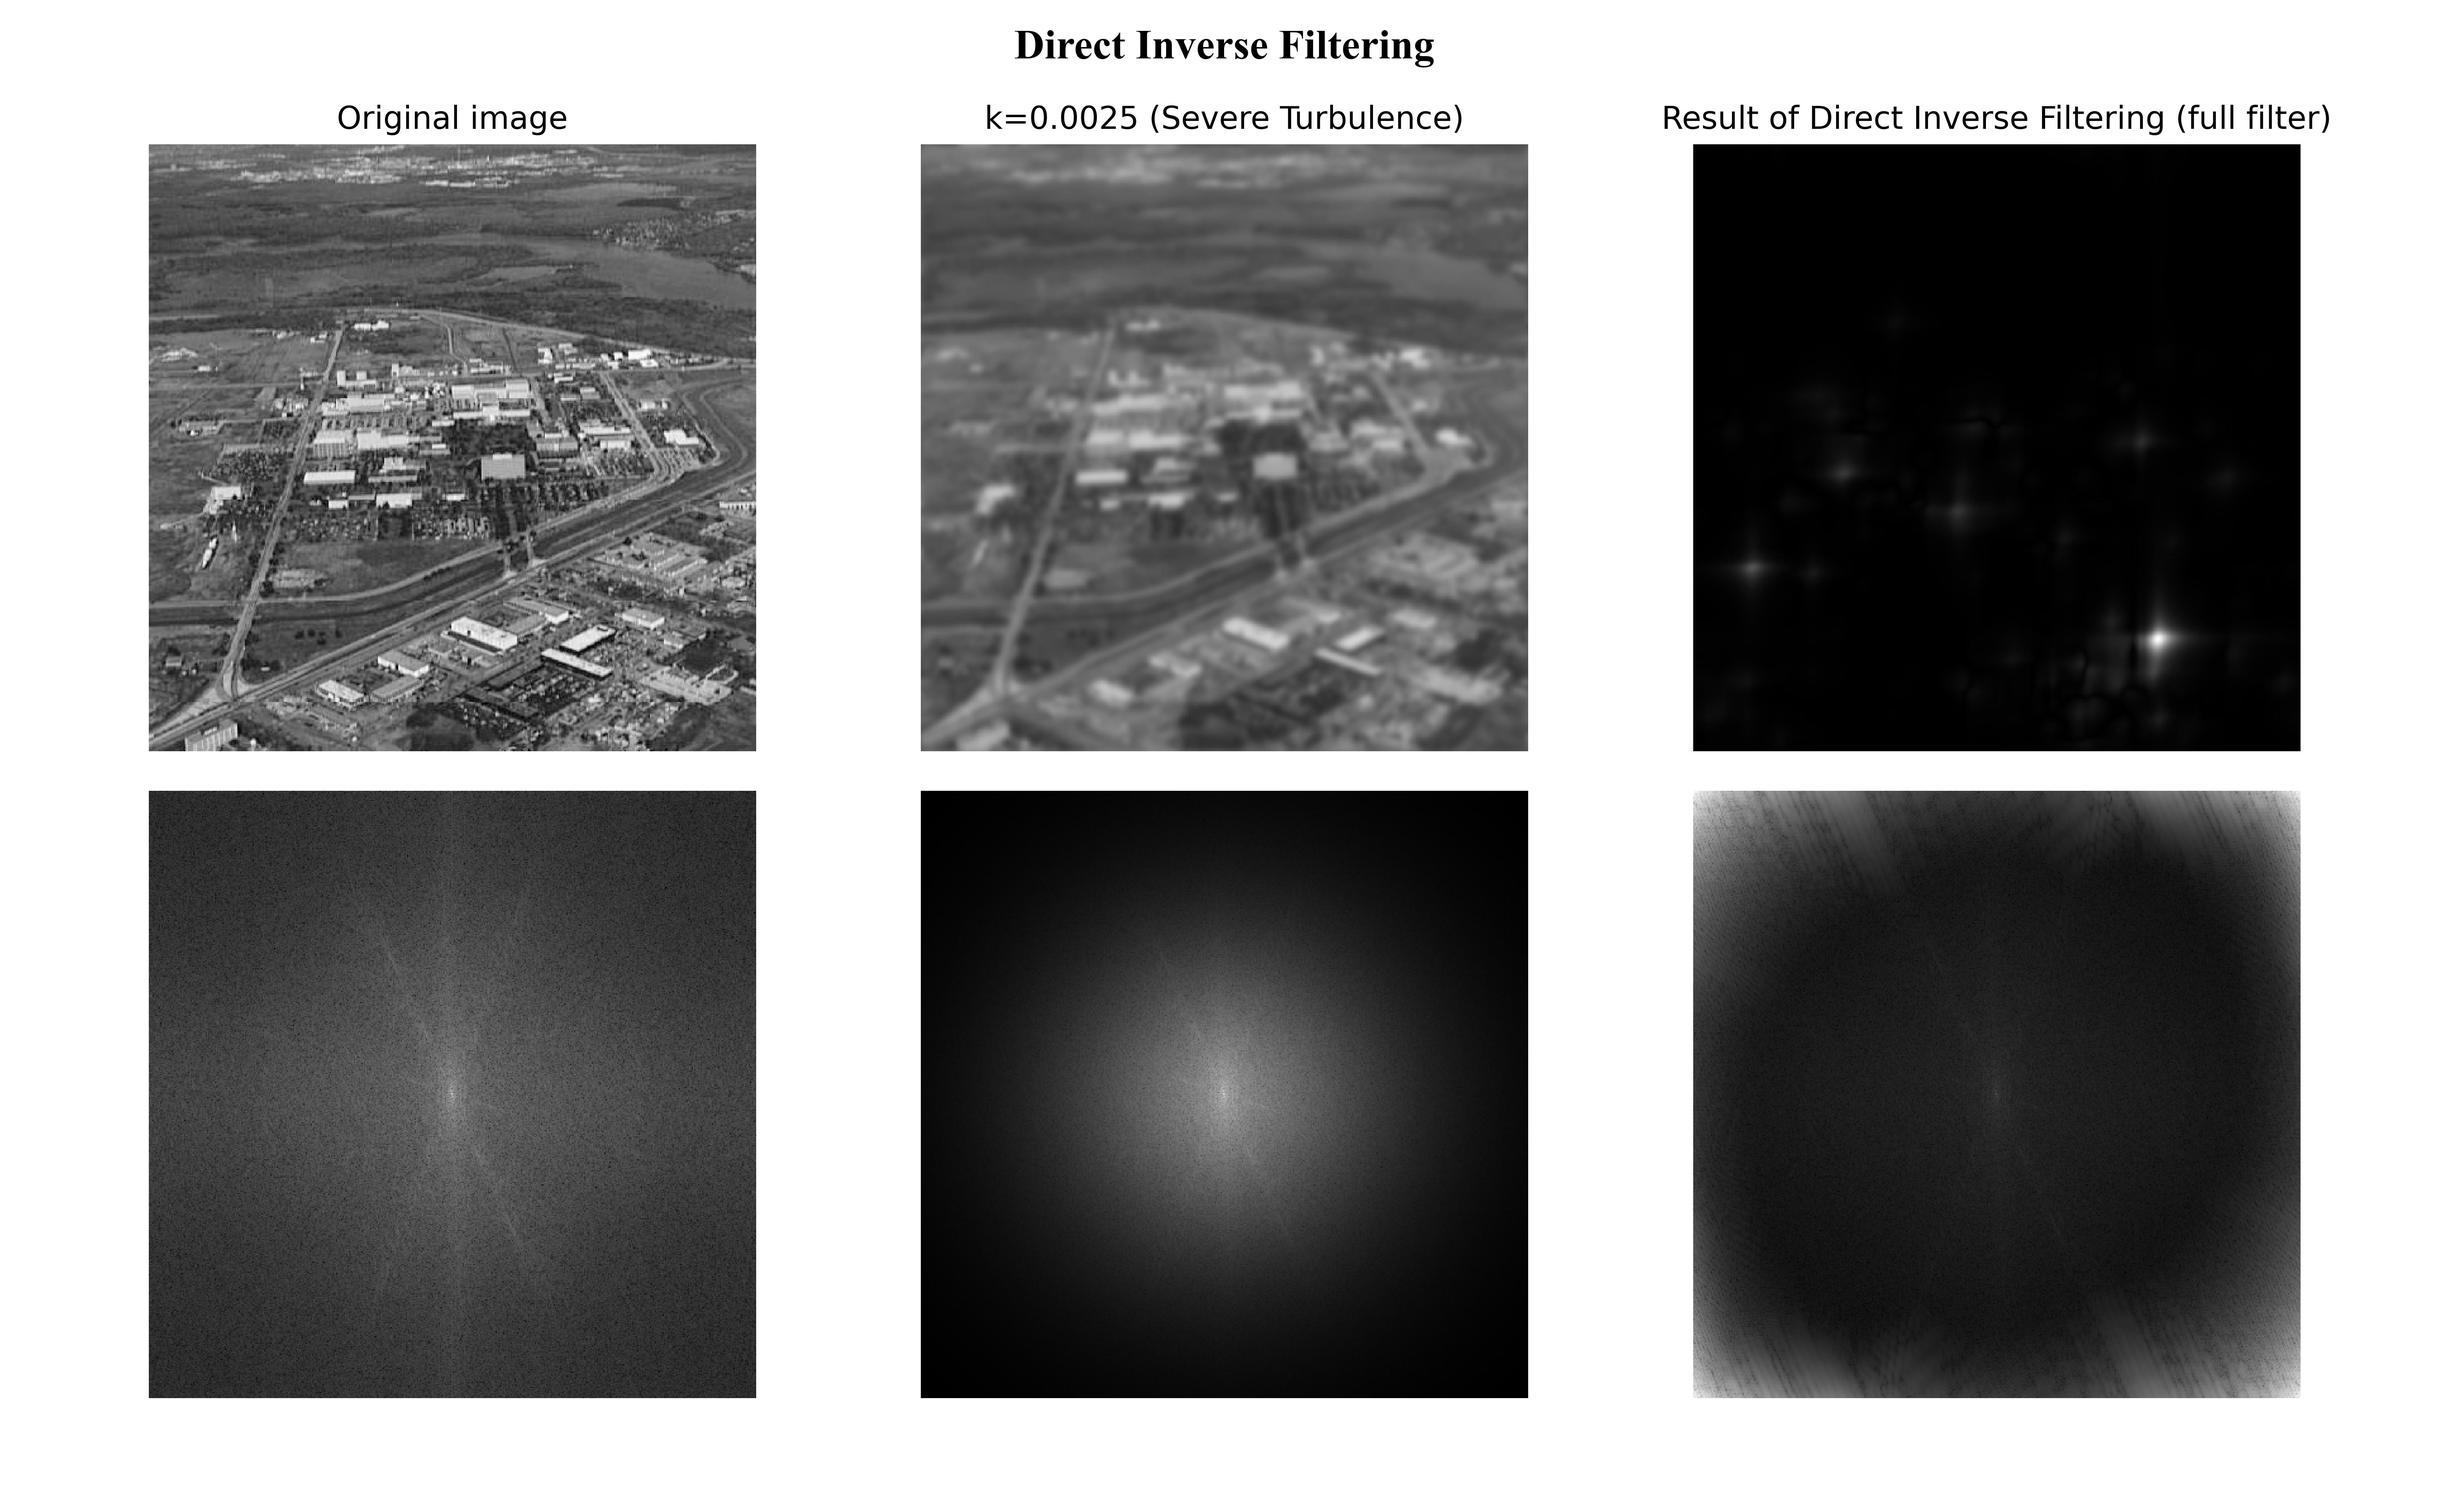
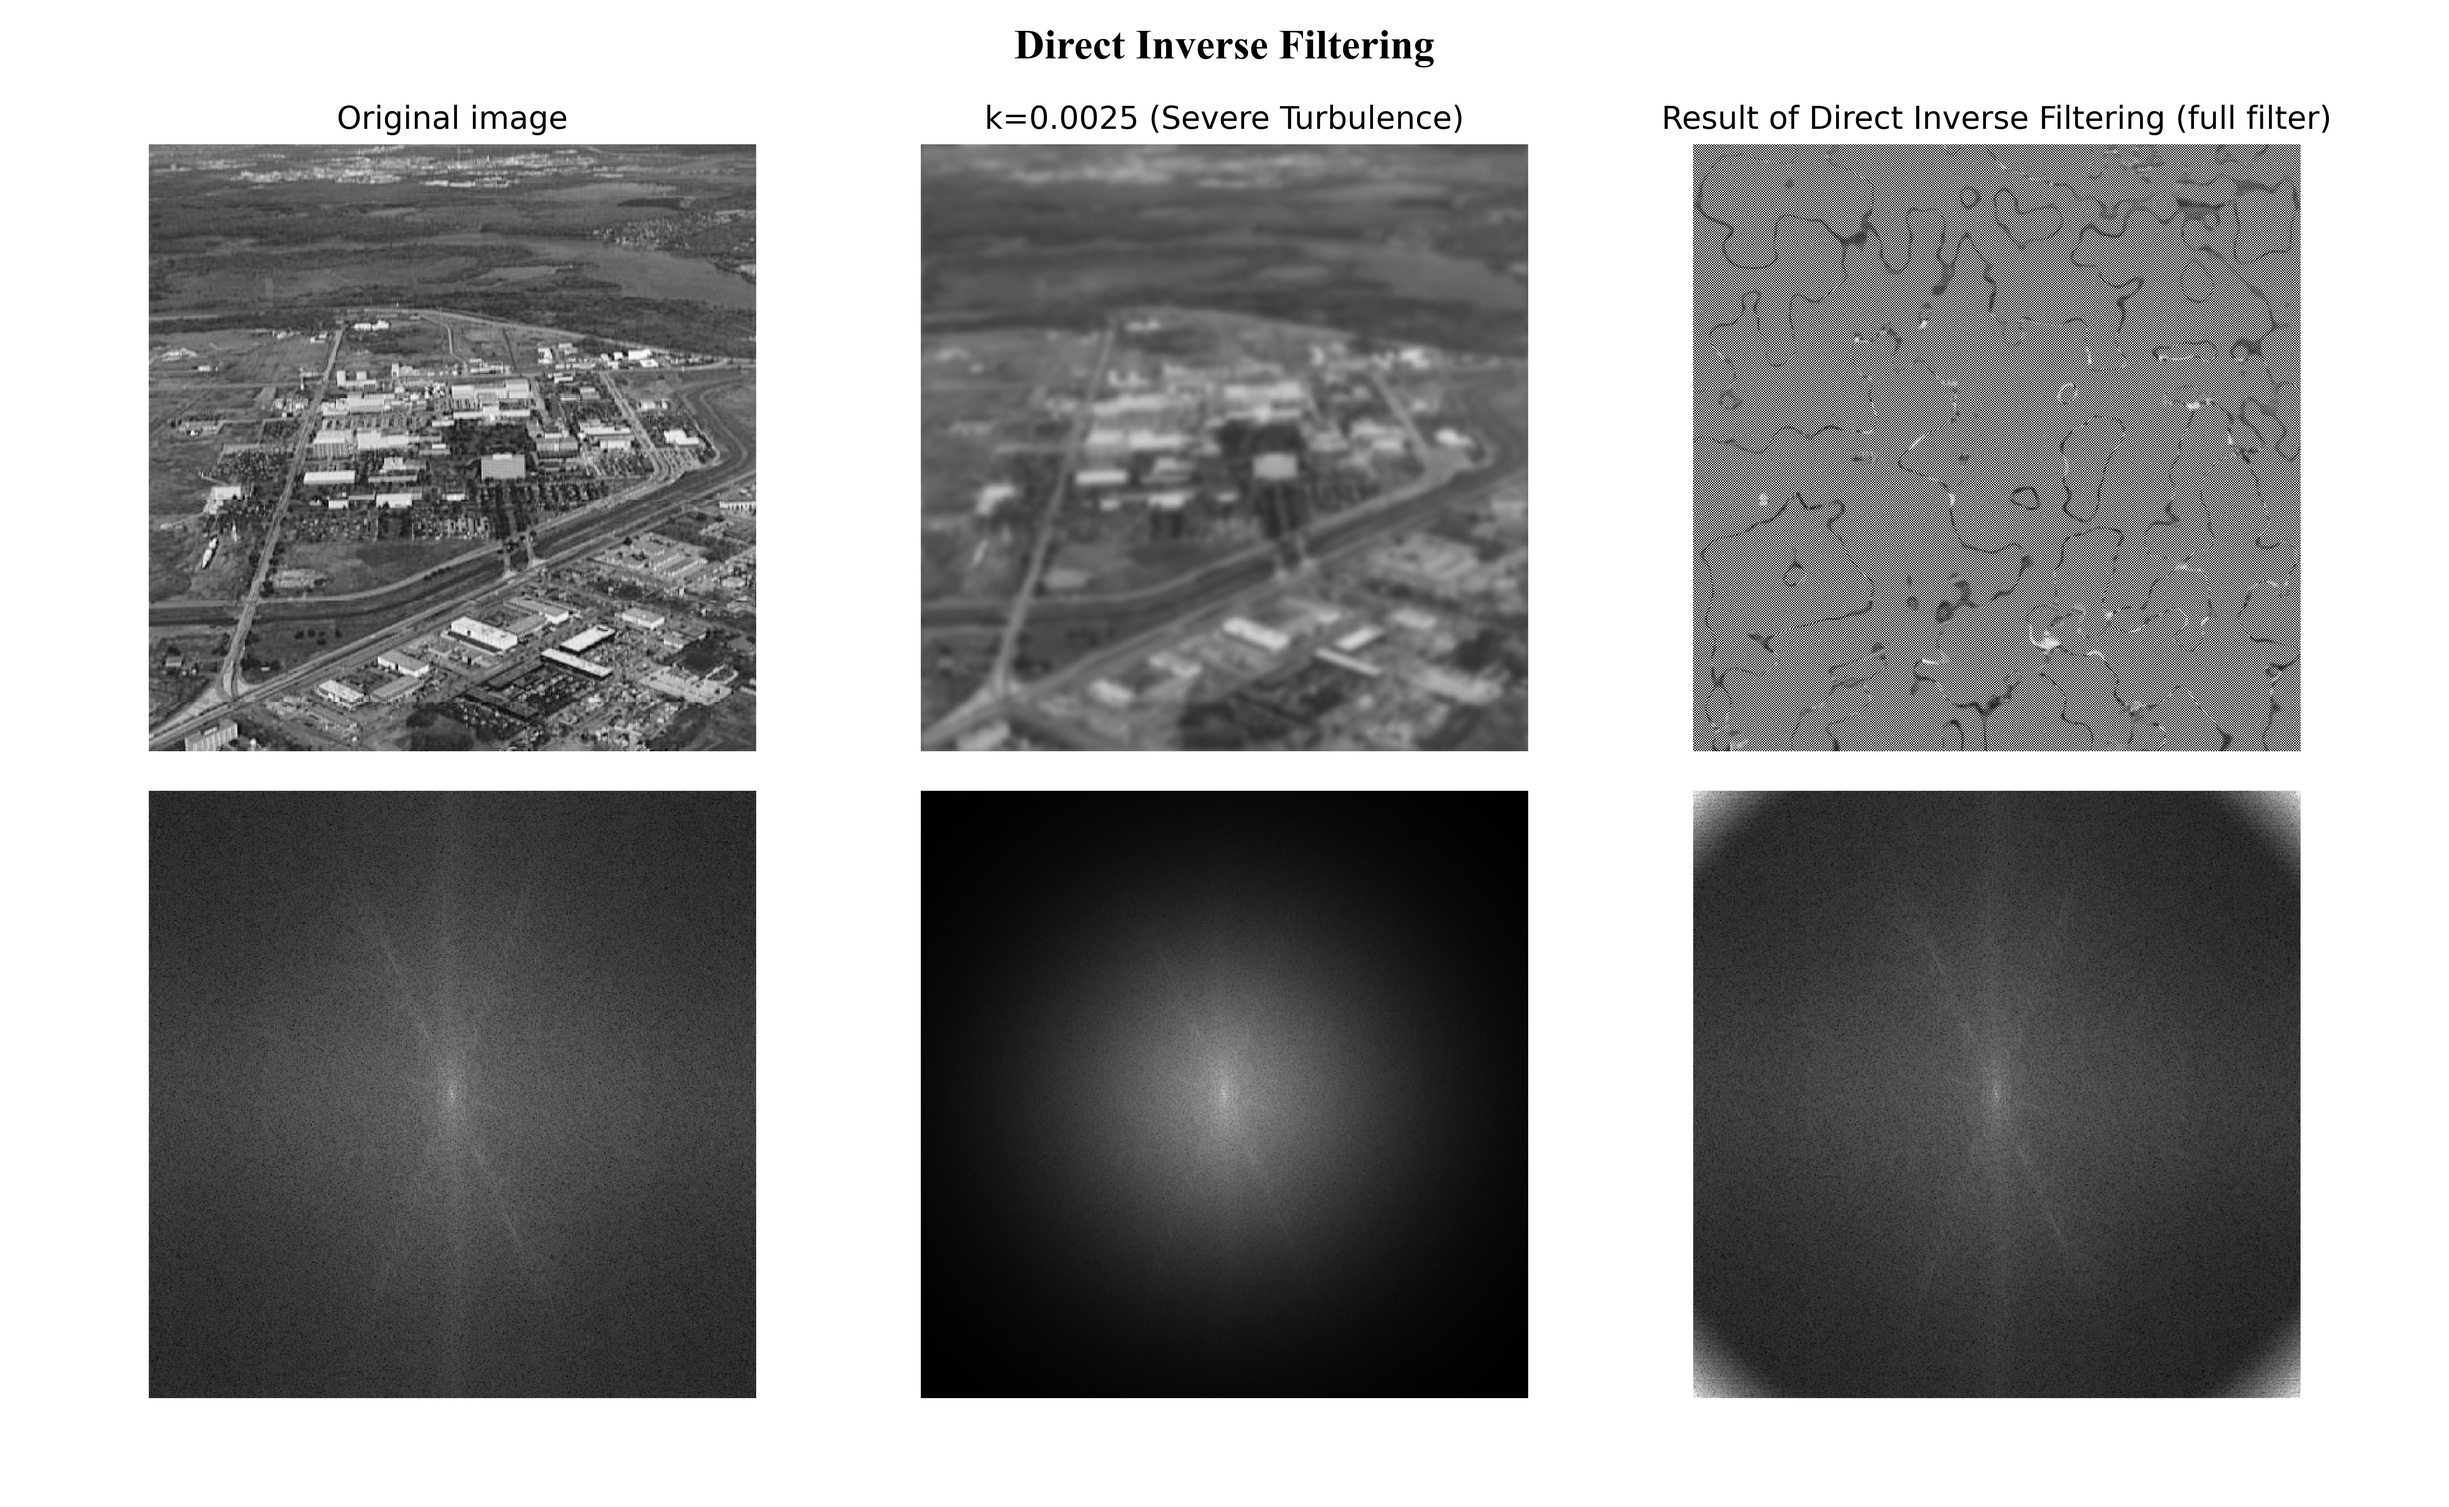
Improved frequency_domain.py

Changed region(s): [[0.6871, 0.0938, 0.9369, 0.9375]]

diff --git a/C_expt10.py b/C_expt10.py
@@ -39,7 +39,7 @@ H_st=dm.atm_tur(img1.shape,0.0025)    # Severe Turbulence
 img_f_H_st=img1_f*H_st
 
 ### degraded image in spatial domain:
-img_s_H_st=fd.idft2(fd.dftshift2(img_f_H_st))
+img_s_H_st=np.real(fd.idft2(fd.dftshift2(img_f_H_st)))
 
 
 # Recovery from degraded image:
@@ -49,15 +49,15 @@ img_f_deg=fd.dftshift2(fd.dft2(img_s_H_st))
 ### Inverse filtering and bounding the output using butterworth filter of order 10, and different radii in frequency domain: 
 img_f_invf=img_f_deg/H_st
 ord=10
-img_f_invf_b_40=(img_f_invf)*flt.bw_lp_flt(img_f_invf.shape,40,ord)
-img_f_invf_b_150=(img_f_invf)*flt.bw_lp_flt(img_f_invf.shape,150,ord)
-img_f_invf_b_180=(img_f_invf)*flt.bw_lp_flt(img_f_invf.shape,180,ord)
+img_f_invf_b_40=(img_f_invf)*flt.bw_lp_flt((img_f_invf.shape),40,ord)
+img_f_invf_b_150=(img_f_invf)*flt.bw_lp_flt((img_f_invf.shape),150,ord)
+img_f_invf_b_180=(img_f_invf)*flt.bw_lp_flt((img_f_invf.shape),180,ord)
 
 ### Inverse filtering and bounding the output using butterworth filter of order 10, and different radii in spatial domain: 
-img_s_invf=fd.idft2(fd.dftshift2(img_f_invf))
-img_s_invf_b_40=fd.idft2(fd.dftshift2(img_f_invf_b_40))
-img_s_invf_b_150=fd.idft2(fd.dftshift2(img_f_invf_b_150))
-img_s_invf_b_180=fd.idft2(fd.dftshift2(img_f_invf_b_180))
+img_s_invf=np.real(fd.idft2(fd.dftshift2(img_f_invf)))
+img_s_invf_b_40=np.real(fd.idft2(fd.dftshift2(img_f_invf_b_40)))
+img_s_invf_b_150=np.real(fd.idft2(fd.dftshift2(img_f_invf_b_150)))
+img_s_invf_b_180=np.real(fd.idft2(fd.dftshift2(img_f_invf_b_180)))
 
 ### Weiner filtering in frequency domain:
 K1=1
@@ -70,10 +70,10 @@ img_f_wf3=img_f_deg*flt.weiner_flt(H_st,K3)
 img_f_wf4=img_f_deg*flt.weiner_flt(H_st,K4)
 
 ### Weiner filtering in spatial domain:
-img_s_wf1=fd.idft2(fd.dftshift2(img_f_wf1))
-img_s_wf2=fd.idft2(fd.dftshift2(img_f_wf2))
-img_s_wf3=fd.idft2(fd.dftshift2(img_f_wf3))
-img_s_wf4=fd.idft2(fd.dftshift2(img_f_wf4))
+img_s_wf1=np.real(fd.idft2(fd.dftshift2(img_f_wf1)))
+img_s_wf2=np.real(fd.idft2(fd.dftshift2(img_f_wf2)))
+img_s_wf3=np.real(fd.idft2(fd.dftshift2(img_f_wf3)))
+img_s_wf4=np.real(fd.idft2(fd.dftshift2(img_f_wf4)))
 
 
 # plots
@@ -93,7 +93,7 @@ ax12.imshow(img_s_H_st,cmap='gray',vmax=255,vmin=0)
 ax13=plt.subplot(gs1[0,2])
 ax13.set_title(f'Result of Direct Inverse Filtering (full filter)')
 ax13.axis('off')
-ax13.imshow(flt.isc(img_s_invf,255),cmap='gray',vmax=255,vmin=0)
+ax13.imshow(img_s_invf,cmap='gray',vmax=255,vmin=0)
 
 ax14=plt.subplot(gs1[1,0])
 ax14.axis('off')
@@ -129,7 +129,7 @@ ax22.imshow(img_s_invf_b_150,cmap='gray',vmax=255,vmin=0)
 ax23=plt.subplot(gs2[0,2])
 ax23.set_title(f'Result cutoff outside radius of 180')
 ax23.axis('off')
-ax23.imshow(flt.isc(img_s_invf_b_180,255),cmap='gray',vmax=255,vmin=0)
+ax23.imshow(img_s_invf_b_180,cmap='gray',vmax=255,vmin=0)
 
 
 ax24=plt.subplot(gs2[1,0])
@@ -166,7 +166,7 @@ ax32.imshow(img_s_H_st,cmap='gray',vmax=255,vmin=0)
 ax33=plt.subplot(gs3[0,2])
 ax33.set_title(f'Result of Weiner Filtering (K={K1})')
 ax33.axis('off')
-ax33.imshow(flt.isc(img_s_wf1,255),cmap='gray',vmax=255,vmin=0)
+ax33.imshow(img_s_wf1,cmap='gray',vmax=255,vmin=0)
 
 ax34=plt.subplot(gs3[1,0])
 ax34.axis('off')
@@ -192,17 +192,17 @@ gs4=gs.GridSpec(2,3)
 ax41=plt.subplot(gs4[0,0])
 ax41.set_title(f'Result of Weiner Filtering (K={K2})')
 ax41.axis('off')
-ax41.imshow(flt.isc(img_s_wf2,255),cmap='gray',vmax=255,vmin=0)
+ax41.imshow(img_s_wf2,cmap='gray',vmax=255,vmin=0)
 
 ax42=plt.subplot(gs4[0,1])
 ax42.set_title(f'Result of Weiner Filtering (K={K3})')
 ax42.axis('off')
-ax42.imshow(flt.isc(img_s_wf3,255),cmap='gray',vmax=255,vmin=0)
+ax42.imshow(img_s_wf3,cmap='gray',vmax=255,vmin=0)
 
 ax43=plt.subplot(gs4[0,2])
 ax43.set_title(f'Result of Weiner Filtering (K={K4})')
 ax43.axis('off')
-ax43.imshow(flt.isc(img_s_wf4,255),cmap='gray',vmax=255,vmin=0)
+ax43.imshow(img_s_wf4,cmap='gray',vmax=255,vmin=0)
 
 ax44=plt.subplot(gs4[1,0])
 ax44.axis('off')

diff --git a/important_classes/frequency_domain.py b/important_classes/frequency_domain.py
@@ -1,18 +1,31 @@
 '''
 Frequency Domain:
+
+Methods:
+    # getW              : returns Vandermonde matrix for order n
+    # dft               : used to calculate 1D Discrete Fourier Transform
+    # idft              : used to calculate 1D Inverse Discrete Fourier Transform
+    # dftshift          : used to center the 1D DFT
+    # dft2              : used to calculate 1D Discrete Fourier Transform
+    # idft2             : used to calculate 1D Inverse Discrete Fourier Transform
+    # pad_img           : pads the image (Needed to avoid wrap around error)
+    # unpad_img         : un-pads the padded image
+    # apply_freq_flt    : used to apply frequency domain filter (Takes care of Wrap Around Error)
+
 '''
 
 # Important imports
 import numpy as np
+from matplotlib import pyplot as plt
     
 
 class FrequencyDomain:
 
     def __init__(self):
-        pass
+        self.flt_size=lambda img_shape: (2*img_shape[0],2*img_shape[1])
 
 
-    # 1D - Discrete Fourier Transform
+    # Vandermonde matrix
 
     def getW(self,N):
         W=np.zeros((N,N),dtype=complex)
@@ -21,6 +34,7 @@ class FrequencyDomain:
                 W[n][k]=np.exp((-2j*np.pi*n*k)/N)
         return W
 
+    # 1D - Discrete Fourier Transform
 
     def dft(self,xn,N=None):
         if N==None:
@@ -38,7 +52,7 @@ class FrequencyDomain:
         if N==None:
             N=len(Xk)
         Wct=np.conjugate(np.transpose(self.getW(N)))
-        return np.abs(np.dot(Xk,Wct)/N)
+        return np.dot(Xk,Wct)/N
 
     def dftshift(self,Xk):
         sXk=np.zeros(Xk.shape,dtype=complex)
@@ -70,4 +84,50 @@ class FrequencyDomain:
         else:
             Wct_N=np.conjugate(np.transpose(self.getW(N)))
             Wct_M=Wct_N[0:M,0:M]
-        return np.abs(np.transpose(np.dot(np.transpose(np.dot(XYK,Wct_N)),Wct_M))/(M*N))
+
+        return np.transpose(np.dot(np.transpose(np.dot(XYK,Wct_N)),Wct_M))/(M*N)
+
+    # Apply Frequency Domain filter
+
+    def pad_img(self,img):
+        r,c=img.shape
+        img_pd=np.zeros((2*r,2*c))
+        img_pd[:r,:c]=img
+        return img_pd
+    
+    def unpad_img(self,img_pd):
+        r,c=img_pd.shape
+        img_unpd=img_pd[:int(r/2),:int(c/2)]
+        return img_unpd
+
+    def apply_freq_flt(self,img,flt):
+        '''
+        img: image (could be in spatial or frequency)
+        flt: filter
+        input: 0 --> image in spatial domain (default)
+               1 --> image in frequency domain (already padded in spatial domain and then dft is found, transform translated to center )  
+        '''
+
+        # Step 1: Pad the image with zeroes such that it has a size of (2r,2c)
+        img=self.pad_img(img)
+        r,c=img.shape
+
+        # Step 2: Multiply by (-1)^(x+y) to translate center its transform
+        freq_trans=np.array([(-1)**(x+y) for x in range(r) for y in range(c)]).reshape(r,c)
+        img=img*freq_trans
+
+        # Step 3: Compute the DFT of image F(u,v)
+        F=self.dft2(img)
+
+        # Step 4: Generate a real, symmetric filter function H(u,v) of size (r,c) with center at (r/2,c/2)
+        H=flt
+
+        # Step 5: Form the product G(u,v)=H(u,v)*F(u,v)
+        G=H*F
+        
+        # Step 6: Obtain the processed image: gp(x,y)={real(=[IDFT(G(u,v))])}*(-1)^(x+y)
+        g=np.real(self.idft2(G))*freq_trans
+
+        # Step 7: Return the frequency domain and unpaded spatial domain filtered image
+        return (G,self.unpad_img(g))           
+    

diff --git a/C_expt8.py b/C_expt8.py
@@ -35,10 +35,9 @@ img_f_H_mt=img1_f*H_mt
 img_f_H_lt=img1_f*H_lt
 
 # degraded images in spatial domain:
-img_s_H_st=fd.idft2(fd.dftshift2(img_f_H_st))
-img_s_H_mt=fd.idft2(fd.dftshift2(img_f_H_mt))
-img_s_H_lt=fd.idft2(fd.dftshift2(img_f_H_lt))
-
+img_s_H_st=np.real(fd.idft2(fd.dftshift2(img_f_H_st)))
+img_s_H_mt=np.real(fd.idft2(fd.dftshift2(img_f_H_mt)))
+img_s_H_lt=np.real(fd.idft2(fd.dftshift2(img_f_H_lt)))
 
 
 # plots

diff --git a/C_expt9.py b/C_expt9.py
@@ -35,9 +35,9 @@ img_f_H_y=img1_f*H_y
 img_f_H_xy=img1_f*H_xy
 
 # degraded images in spatial domain:
-img_s_H_x=fd.idft2(fd.dftshift2(img_f_H_x))
-img_s_H_y=fd.idft2(fd.dftshift2(img_f_H_y))
-img_s_H_xy=fd.idft2(fd.dftshift2(img_f_H_xy))
+img_s_H_x=np.real(fd.idft2(fd.dftshift2(img_f_H_x)))
+img_s_H_y=np.real(fd.idft2(fd.dftshift2(img_f_H_y)))
+img_s_H_xy=np.real(fd.idft2(fd.dftshift2(img_f_H_xy)))
 
 
 # plots

diff --git a/README.md b/README.md
@@ -77,4 +77,4 @@ Download the repository as a zip file, and extract it in a folder on your local 
 | 9. | Visualizing the Motion Blur Degradation in an image in the spatial as well as the frequency domain|
 | 10.| Direct Inverse and Weiner Filtering |
 |   |   |
-|**D.** | **Morphological Image Processing**  | 
+|**D.** | **Filtering in the Frequency Domain**  | 
